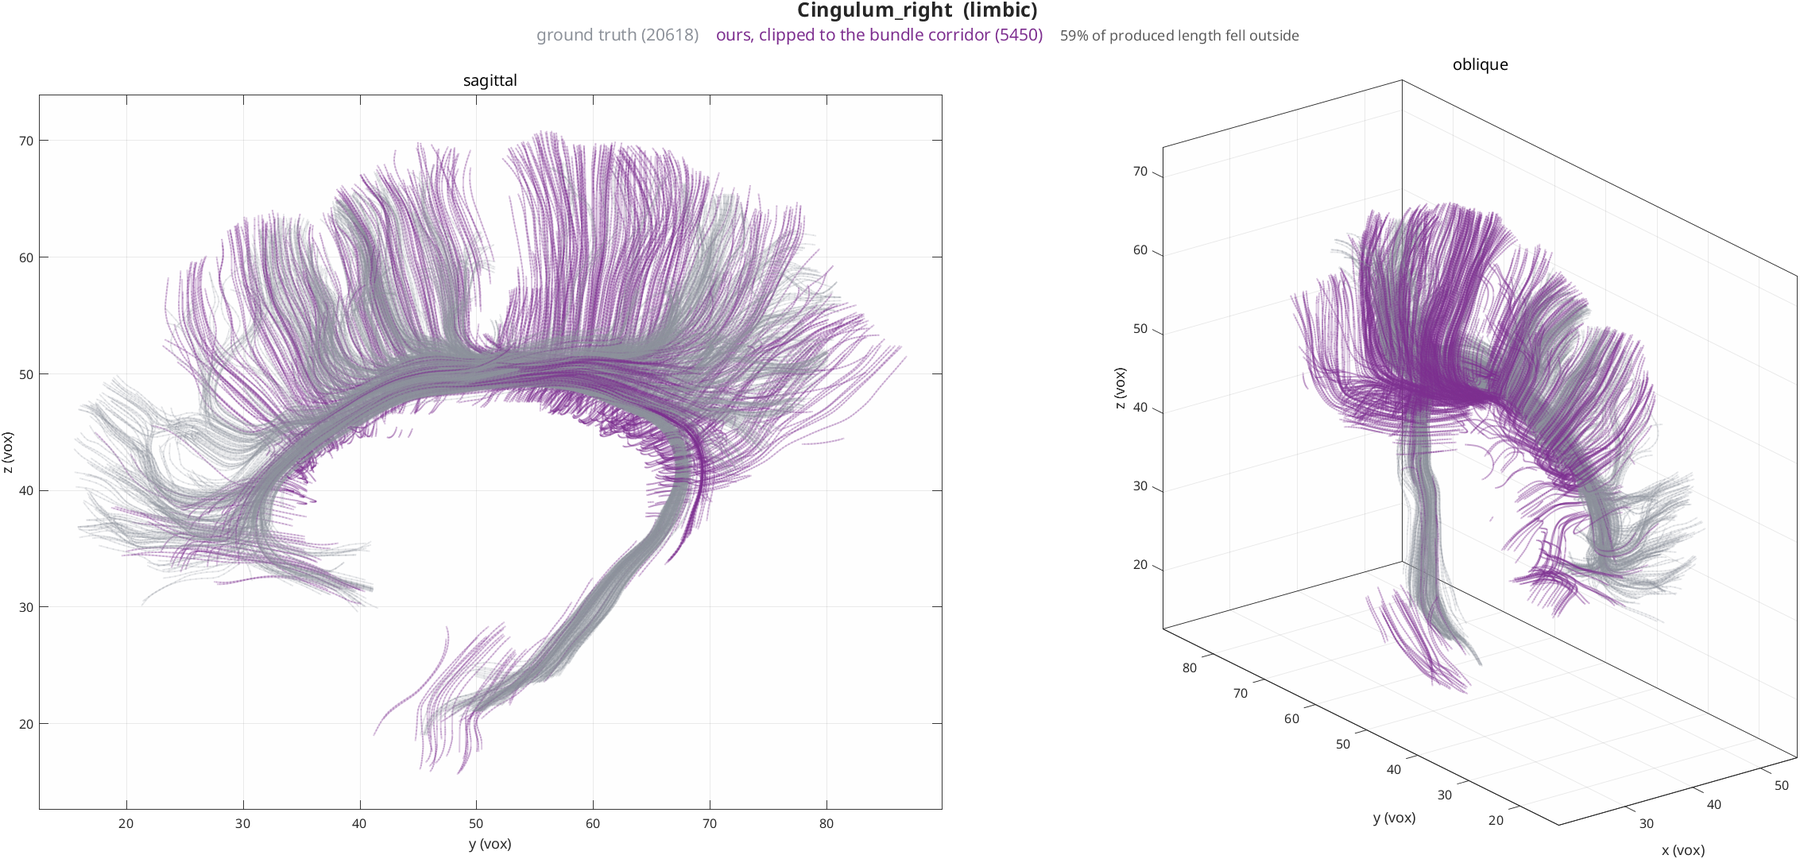
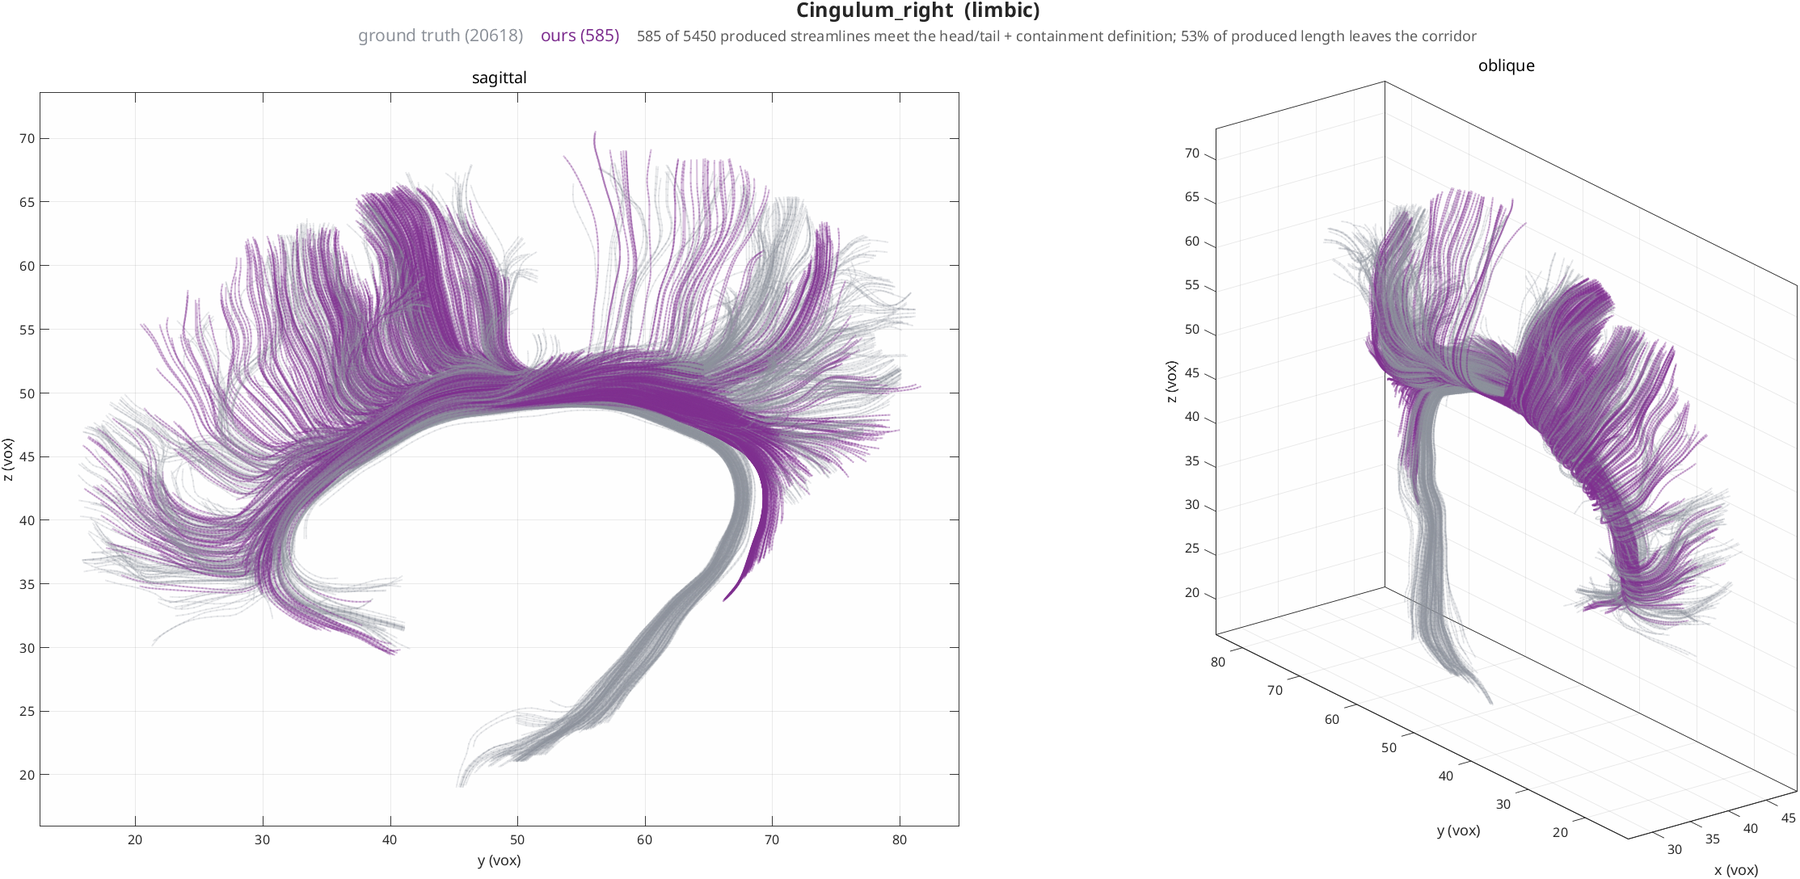
Show the segmented bundle in the figures, not a corridor clip
The bundle figures were the raw tractogram clipped to each bundle's containment
corridor. That was the wrong choice and it made the results look far worse than
they are: the corridor is a permissive gate, not a bundle shape. For UF_right it
is 2.5x the volume of the ground-truth bundle and 60% of it is space the ground
truth never enters, so clipped streamlines spread through that empty 60% and the
figure showed obvious deviation from the grey.

Measured, agreement with the ground-truth envelope:

  bundle           corridor-clipped   segmented
  BPS_right                    93%          99%
  CC_u_shaped                  89%          99%
  ILF_right                    87%          95%
  UF_right                     82%          98%
  Cingulum_right               80%         100%
  SLF_right                    62%          94%

The figures now show the bundle as the scorer defines it - one endpoint in each
of the head and tail ROIs, every point inside the corridor - which is both the
standard quantity and the one a reader should judge.

I had argued clipping was the more honest presentation because rejection hides
streamlines that overshoot. The selection is instead DISCLOSED: every caption
states how many of the produced streamlines meet the definition and how much
produced length leaves the corridor, and the page carries both numbers per
bundle. Only 9-35% of what the tracker produces meets the definition, and that
[…]

diff --git a/docs/ISMRM_SCORING_ANALYSIS.md b/docs/ISMRM_SCORING_ANALYSIS.md
@@ -23,38 +23,40 @@ original 2015 scoring system).
 
 ## Reconstruction against ground truth
 
-Each bundle below is seeded from its own ISMRM mask, tracked with **no
-filtering**, and then **clipped** to the bundle's containment corridor for
-display. Grey is the ground-truth tractogram; colour is ours.
+Each bundle below is seeded from its own ISMRM mask and then **segmented the way
+the scorer defines a bundle**: one endpoint in each of the head and tail ROIs,
+and every point inside the containment corridor. Grey is the ground-truth
+tractogram; colour is ours.
 
-!!! warning "Clipped, not filtered — and why that distinction matters"
-    The scorer defines a bundle by containment: a streamline with *any* point
-    outside the corridor is not that bundle and is discarded whole. That is the
-    correct rule for scoring and a misleading one for a picture. A streamline
-    that follows a bundle correctly and then overshoots past its end gets deleted
-    entirely, taking the correct portion with it — so the figure shows a bundle
-    that stops short, which reads as the tracker *failing to reach* when what
-    actually happened is that it reached too far.
+!!! note "These are the streamlines that meet the definition, not everything produced"
+    The counts in each caption say how many of the produced streamlines survive
+    that test, and how much of the produced length leaves the corridor. Both
+    numbers are large: the tracker generates far more than the definition
+    accepts. Read the figure as *what the scorer would count*, not as the
+    tracker's raw output.
 
-    These figures clip instead, and state how much length was lost, so the
-    overshoot is visible rather than hidden. Clipping is `nim_plot_bundles`'
-    `.clip` option; rejection is `nim_filter_tracks_roi`, which is what scoring
-    uses.
+    Showing the raw output instead is not more informative, because the
+    containment corridor is a permissive gate rather than a bundle shape — for
+    `UF_right` it is 2.5× the volume of the ground-truth bundle and 60% of it is
+    space the ground truth never enters. Streamlines merely clipped to that
+    corridor spread through the empty 60%, agreeing with the ground truth over
+    only 62–93% of their length against 94–100% for the segmented bundles.
 
-**How much of each bundle leaves its own corridor:**
+**How much the tracker overproduces:**
 
-| bundle | streamlines | length outside the corridor |
-|---|--:|--:|
-| CC_u_shaped | 16287 | **28%** |
-| ILF_right | 2394 | **42%** |
-| BPS_right | 7810 | **43%** |
-| Cingulum_right | 5450 | **59%** |
-| SLF_right | 3901 | **61%** |
-| UF_right | 1398 | **62%** |
+| bundle | produced | meet the definition | length outside the corridor | agreement with GT |
+|---|--:|--:|--:|--:|
+| CC_u_shaped | 16287 | 5656 (35%) | 26% | 99% |
+| BPS_right | 7810 | 1173 (15%) | 43% | 99% |
+| ILF_right | 2394 | 718 (30%) | 42% | 95% |
+| Cingulum_right | 5450 | 585 (11%) | 53% | 100% |
+| UF_right | 1398 | 363 (26%) | 62% | 98% |
+| SLF_right | 3901 | 365 (9%) | 59% | 94% |
 
-That is the honest headline for single-tensor DTI tracking on this phantom:
-between a quarter and two thirds of produced streamline length leaves the bundle
-it was seeded in. The streamlines are typically correct along the bundle and then
+Two honest headlines sit in that table. The streamlines that meet the definition
+agree with the ground truth over 94–100% of their length — the reconstruction is
+good. But only **9–35% of what the tracker produces** meets it, and between a
+quarter and two thirds of produced length leaves the bundle it was seeded in. The streamlines are typically correct along the bundle and then
 continue past its end onto whichever tract is locally strongest — a crossing
 problem, not a termination one. `field: csd` is the intended remedy and has not
 yet been evaluated here.

diff --git a/docs/CONVERGENCE.md b/docs/CONVERGENCE.md
@@ -41,7 +41,7 @@ with the refinement parameter is not a fixed problem to converge to.
 ![Right uncinate fasciculus: ours against the ISMRM ground truth](img/bundle_uf_right.png)
 
 *The seed region. Grey is the ISMRM ground-truth `UF_right` bundle, red is ours,
-clipped to the bundle corridor for display. Shown only to establish what the
+segmented by the scorer's own head/tail and containment test. Shown only to establish what the
 convergence ladders are tracking through — it is a validation figure and the
 ladders do not depend on it.*
 
